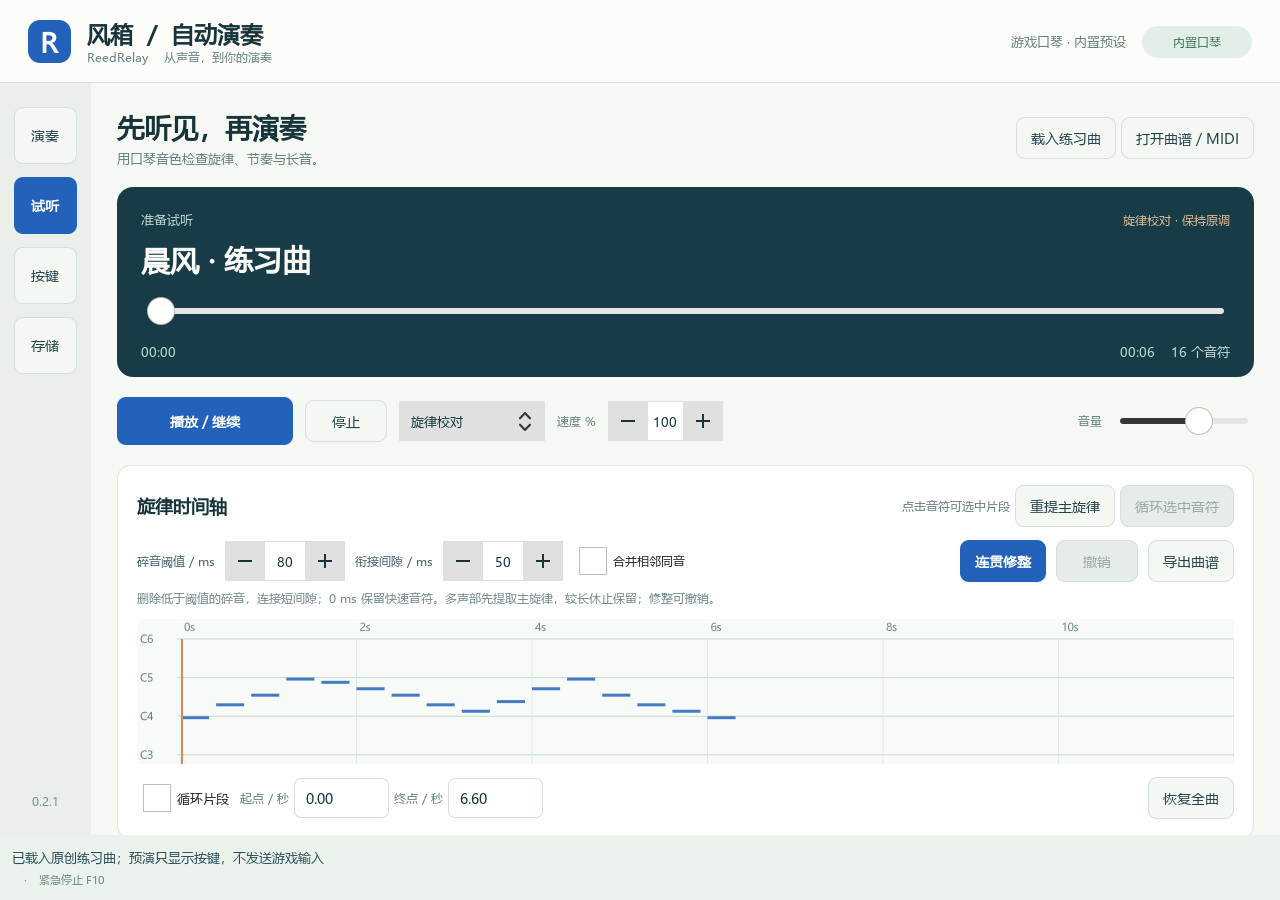
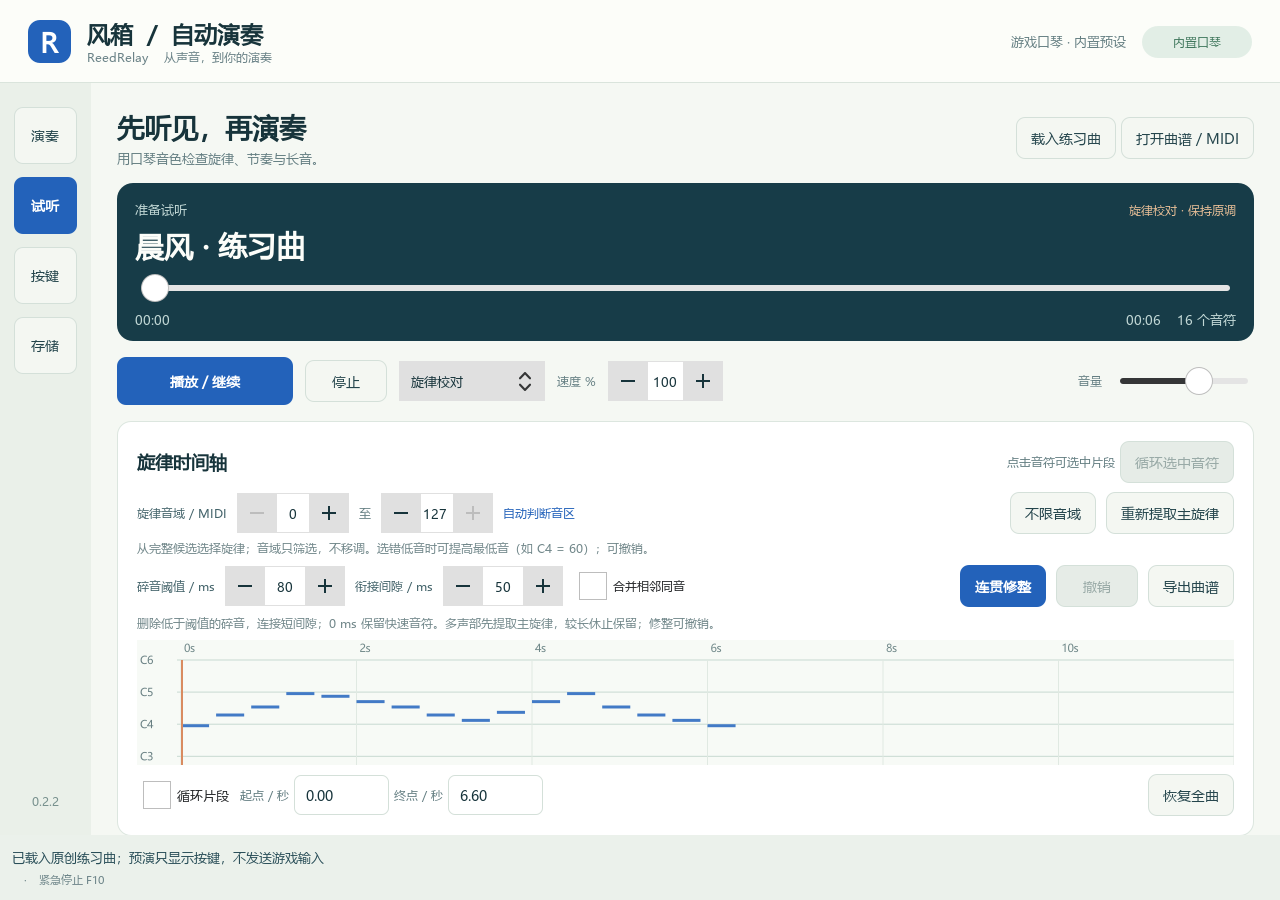
feat(ui): deliver 0.2.2 melody range and legacy tuning correction

diff --git a/src/reed_relay/ui/Audition.qml b/src/reed_relay/ui/Audition.qml
@@ -8,7 +8,7 @@ ScrollView {
     function clock(ms) { let s=Math.floor(ms/1000);return Math.floor(s/60).toString().padStart(2,"0")+":"+(s%60).toString().padStart(2,"0") }
     clip:true;contentWidth:availableWidth
     ColumnLayout {
-        width:page.availableWidth;spacing:20
+        width:page.availableWidth;spacing:16
         RowLayout {
             Layout.fillWidth:true;Layout.margins:26;Layout.bottomMargin:0
             ColumnLayout {
@@ -21,16 +21,16 @@ ScrollView {
             ActionButton { text:"打开曲谱 / MIDI";enabled:!bridge.busy;onClicked:bridge.openProject() }
         }
         Rectangle {
-            Layout.fillWidth:true;Layout.leftMargin:26;Layout.rightMargin:26;Layout.preferredHeight:190;radius:16;color:"#173c48"
+            Layout.fillWidth:true;Layout.leftMargin:26;Layout.rightMargin:26;Layout.preferredHeight:158;radius:16;color:"#173c48"
             ColumnLayout {
-                anchors.fill:parent;anchors.margins:24;spacing:12
+                anchors.fill:parent;anchors.margins:18;spacing:8
                 RowLayout {
                     Label { text:page.transport.status;color:"#c1d7d5";font.pixelSize:13 }
                     Item { Layout.fillWidth:true }
                     Label { text:page.transport.mode==="clean"?"旋律校对 · 保持原调":"游戏效果 · 含推算音色";color:"#e9bf97";font.pixelSize:12 }
                 }
                 Label { Layout.fillWidth:true;text:bridge.title;color:"#fcfdf9";font.pixelSize:29;font.bold:true;elide:Text.ElideRight }
-                Slider { id:seek;Layout.fillWidth:true;from:0;to:Math.max(1,bridge.duration);value:page.transport.position;enabled:!page.transport.busy && bridge.notes.length>0;onMoved:page.transport.seek(value) }
+                Slider { id:seek;Layout.fillWidth:true;Layout.preferredHeight:30;from:0;to:Math.max(1,bridge.duration);value:page.transport.position;enabled:!page.transport.busy && bridge.notes.length>0;onMoved:page.transport.seek(value) }
                 RowLayout {
                     Label { text:page.clock(page.transport.position);color:"#c1d7d5";font.pixelSize:13 }
                     Item { Layout.fillWidth:true }
@@ -53,17 +53,17 @@ ScrollView {
         Panel {
             Layout.fillWidth:true;Layout.leftMargin:26;Layout.rightMargin:26
             ColumnLayout {
-                anchors.fill:parent;spacing:13
+                anchors.fill:parent;spacing:9
                 RowLayout {
                     Label { text:"旋律时间轴";font.pixelSize:18;font.bold:true;color:"#17343b" }
                     Item { Layout.fillWidth:true }
                     Label { text:"点击音符可选中片段";font.pixelSize:12;color:"#647e82" }
-                    ActionButton { text:"重提主旋律";enabled:!bridge.busy && bridge.notes.length>0;onClicked:bridge.changeReduction(true) }
                     ActionButton { text:"循环选中音符";enabled:bridge.selectedNote>=0;onClicked:bridge.auditionSelected() }
                 }
+                MelodySelection { Layout.fillWidth:true }
                 MelodyTools { Layout.fillWidth:true }
                 Item {
-                    Layout.fillWidth:true;Layout.preferredHeight:145
+                    Layout.fillWidth:true;Layout.preferredHeight:125
                     PianoRoll { id:roll;anchors.fill:parent;notes:bridge.notes;selected:bridge.selectedNote;spanMs:12000;startMs:Math.floor(page.transport.position/12000)*12000;onPicked:function(index){bridge.selectNote(index)} }
                     Rectangle { x:44+((page.transport.position-roll.startMs)/roll.spanMs)*(parent.width-44);y:20;width:2;height:parent.height-20;color:"#d98b60" }
                 }

diff --git a/src/reed_relay/ui/Converter.qml b/src/reed_relay/ui/Converter.qml
@@ -18,7 +18,7 @@ ScrollView {
             ColumnLayout {
                 spacing: 5
                 Label { text: "把声音，写成可演奏的谱"; color: "#17343b"; font.pixelSize: 27; font.bold: true }
-                Muted { text: "保留原调。先识别，再用耳朵确认每一个音。" }
+                Muted { text: "保留原调。还原歌声旋律时，请使用含人声的原曲或 MIDI。" }
             }
             Item { Layout.fillWidth: true }
             ActionButton { text: "恢复自动保存"; enabled: !bridge.busy; onClicked: bridge.recoverProject() }
@@ -73,6 +73,7 @@ ScrollView {
                     Muted { text: "橙色为低模型分数，建议优先试听"; color: "#ad784d" }
                     ComboBox { id: zoom; model: ["12 秒视窗", "24 秒视窗", "48 秒视窗"]; implicitWidth: 125 }
                 }
+                MelodySelection { Layout.fillWidth:true }
                 MelodyTools { Layout.fillWidth:true }
                 PianoRoll { Layout.fillWidth: true; Layout.preferredHeight: 155; notes: bridge.notes; selected: bridge.selectedNote; startMs: viewStart.value; spanMs: 12000*Math.pow(2,zoom.currentIndex); onPicked: function(index) { bridge.selectNote(index) } }
                 Slider { id: viewStart; Layout.fillWidth: true; from: 0; to: Math.max(0,bridge.duration-12000*Math.pow(2,zoom.currentIndex)); stepSize: 200; value: 0 }
@@ -81,7 +82,6 @@ ScrollView {
                     Item { Layout.fillWidth: true }
                     ActionButton { text: "撤销"; enabled: bridge.canUndo && !bridge.busy; onClicked: bridge.undo() }
                     ActionButton { text: "重做"; enabled: bridge.canRedo && !bridge.busy; onClicked: bridge.redo() }
-                    ActionButton { text: "提取主旋律"; enabled: bridge.notes.length>0 && !bridge.busy; onClicked: bridge.changeReduction(true) }
                     ActionButton { text: "恢复原始候选"; enabled: bridge.notes.length>0 && !bridge.busy; onClicked: bridge.changeReduction(false) }
                 }
                 Rectangle {

diff --git a/src/reed_relay/ui/MelodySelection.qml b/src/reed_relay/ui/MelodySelection.qml
@@ -1,0 +1,21 @@
+import QtQuick
+import QtQuick.Controls
+import QtQuick.Layouts
+
+ColumnLayout {
+    id:selection
+    spacing:6
+    function name(pitch) { return ["C","C♯","D","D♯","E","F","F♯","G","G♯","A","A♯","B"][pitch%12]+(Math.floor(pitch/12)-1) }
+    RowLayout {
+        Layout.fillWidth:true;spacing:10
+        Label { text:"旋律音域 / MIDI";font.pixelSize:12;color:"#43636a" }
+        SpinBox { id:lowest;objectName:"melodyMinimum";from:0;to:127;value:bridge.melodyDefaults.minimum;editable:true;implicitWidth:112;font.pixelSize:13;enabled:!bridge.busy;onValueModified:bridge.configureMelody(value,Math.max(value,highest.value)) }
+        Label { text:"至";font.pixelSize:12;color:"#647e82" }
+        SpinBox { id:highest;objectName:"melodyMaximum";from:0;to:127;value:bridge.melodyDefaults.maximum;editable:true;implicitWidth:112;font.pixelSize:13;enabled:!bridge.busy;onValueModified:bridge.configureMelody(Math.min(value,lowest.value),value) }
+        Label { text:lowest.value===0 && highest.value===127?"自动判断音区":selection.name(lowest.value)+" – "+selection.name(highest.value);font.pixelSize:12;color:"#2362ba" }
+        Item { Layout.fillWidth:true }
+        ActionButton { text:"不限音域";enabled:!bridge.busy;onClicked:bridge.configureMelody(0,127) }
+        ActionButton { objectName:"melodyExtract";text:"重新提取主旋律";enabled:!bridge.busy && bridge.notes.length>0;onClicked:bridge.changeReduction(true) }
+    }
+    Label { Layout.fillWidth:true;wrapMode:Text.Wrap;text:"从完整候选选择旋律；音域只筛选，不移调。选错低音时可提高最低音（如 C4 = 60）；可撤销。";font.pixelSize:12;color:"#71878a" }
+}

diff --git a/src/reed_relay/ui/Main.qml b/src/reed_relay/ui/Main.qml
@@ -90,7 +90,7 @@ ApplicationWindow {
                 ActionButton { text: "按键"; primary: root.page === "settings"; implicitWidth: 63; implicitHeight: 57; onClicked: { root.reloadDraft(); root.page="settings" } }
                 ActionButton { text: "存储"; primary: root.page === "storage"; implicitWidth: 63; implicitHeight: 57; onClicked: root.page="storage" }
             }
-            Label { anchors.bottom: parent.bottom; anchors.bottomMargin: 26; anchors.horizontalCenter: parent.horizontalCenter; text: "0.2.1"; color: "#78918e"; font.pixelSize: 12 }
+            Label { anchors.bottom: parent.bottom; anchors.bottomMargin: 26; anchors.horizontalCenter: parent.horizontalCenter; text: "0.2.2"; color: "#78918e"; font.pixelSize: 12 }
         }
         StackLayout {
             Layout.fillWidth:true;Layout.fillHeight:true

diff --git a/src/reed_relay/backend.py b/src/reed_relay/backend.py
@@ -23,7 +23,7 @@ from reed_relay.player.windows import Hotkeys, WindowsOutput, windows, focus_gua
 from reed_relay.audition import Audition
 from reed_relay.binding import BindingCapture
 from reed_relay.storage import Storage, rewrite_paths, suggested_file
-from reed_relay.core.melody import repair_melody
+from reed_relay.core.melody import repair_melody, select_melody, model_semitone_notes
 
 
 class Backend(QObject):
@@ -66,6 +66,8 @@ class Backend(QObject):
         self._repair_minimum = self._initial_options.get('repair_minimum', 80.)
         self._repair_gap = self._initial_options.get('repair_gap', 50.)
         self._repair_merge = self._initial_options.get('repair_merge', False)
+        self._melody_minimum = self._initial_options.get('melody_minimum', 0)
+        self._melody_maximum = self._initial_options.get('melody_maximum', 127)
         self._tune, self._stream, self._mic_queue = {}, None, queue.Queue(maxsize=2)
         self._capture_source, self._capture_devices, self._capture_device = "system", [], -1
         self._loopback, self._capture_level, self._last_audio_time = None, 0., 0.
@@ -217,6 +219,9 @@ class Backend(QObject):
     @Property('QVariantMap', notify=changed)
     def repairDefaults(self):
         return {'minimum':self._repair_minimum,'gap':self._repair_gap,'merge':self._repair_merge}
+    @Property('QVariantMap', notify=changed)
+    def melodyDefaults(self):
+        return {'minimum':self._melody_minimum,'maximum':self._melody_maximum}
     @Property("QVariantList", notify=scoreChanged)
     def voices(self): return sorted({n.voice for n in self._score.notes})
 
@@ -285,11 +290,21 @@ class Backend(QObject):
             self._edited()
         except Exception as error: self._error(error)
 
+    @Slot(int, int)
+    def configureMelody(self, minimum, maximum):
+        if self._busy or not 0 <= minimum <= maximum <= 127: return
+        self._melody_minimum, self._melody_maximum = minimum, maximum
+        try: self._save_preferences()
+        except OSError as error: self._error(error)
+        self.changed.emit()
+
     def _prepared_score(self):
         return replace(self._score, notes=self._reduce(self._score.notes)) if self._melody else self._score
 
     def _reduce(self, notes):
-        return repair_melody(extract_melody(notes), self._repair_minimum, self._repair_gap, self._repair_merge)
+        notes = model_semitone_notes(notes, self._score.metadata)
+        return repair_melody(select_melody(notes, minimum_pitch=self._melody_minimum, maximum_pitch=self._melody_maximum),
+                             self._repair_minimum, self._repair_gap, self._repair_merge)
 
     def _check(self):
         try:
@@ -475,7 +490,8 @@ class Backend(QObject):
         return {"speed":round(self._speed*100),"delay":self._delay,
                     "transpose":self._transpose,"melody":self._melody,"skip":self._skip,
                     "auto_continue":self._auto_continue,"long_policy":self._long_policy,"repeat_gap":self._repeat_gap,
-                    'repair_minimum':self._repair_minimum,'repair_gap':self._repair_gap,'repair_merge':self._repair_merge}
+                    'repair_minimum':self._repair_minimum,'repair_gap':self._repair_gap,'repair_merge':self._repair_merge,
+                    'melody_minimum':self._melody_minimum,'melody_maximum':self._melody_maximum}
 
     @Slot(str, float)
     def configureArticulation(self, policy, gap):
@@ -861,6 +877,7 @@ class Backend(QObject):
         self._conversion_cancel.clear()
         paths = list(self._audio_queue)
         repair_options = {'minimum_ms':self._repair_minimum,'gap_ms':self._repair_gap,'merge_repeats':self._repair_merge}
+        repair_options.update(minimum_pitch=self._melody_minimum, maximum_pitch=self._melody_maximum)
         def worker():
             try:
                 from .converter.transcribe import transcribe
@@ -1018,14 +1035,19 @@ class Backend(QObject):
 
     @Slot(bool)
     def changeReduction(self, melody):
-        if self._busy: return
-        self._remember()
-        if not self._score.original_notes: self._score.original_notes=list(self._score.notes)
-        source = self._score.original_notes
-        self.stop(); self.stopAudio()
-        self._score.notes = self._reduce(source) if melody else list(source)
-        self._selected_note=-1
-        self._edited()
+        if self._busy or self.binding.active: return
+        try:
+            source = self._score.original_notes or self._score.notes
+            selected = self._reduce(source) if melody else list(source)
+            if not selected: raise ValueError('当前音域和碎音阈值下没有旋律候选；请扩大音域或降低碎音阈值')
+            self.stop(); self.stopAudio()
+            self._remember()
+            if not self._score.original_notes: self._score.original_notes = list(source)
+            self._score.notes, self._selected_note = selected, -1
+            self._message = (f'已重新提取：{len(source)} 个候选 → {len(selected)} 个旋律音；保持原调，可撤销'
+                             if melody else f'已恢复 {len(source)} 个完整候选，可撤销')
+            self._edited()
+        except Exception as error: self._error(error)
 
     @Slot(str)
     def selectVoice(self, voice):

diff --git a/src/reed_relay/app.py b/src/reed_relay/app.py
@@ -24,6 +24,9 @@ def run(mode):
     parser.add_argument("--score")
     parser.add_argument("--transcribe")
     parser.add_argument("--repair-score", help="修整已有曲谱碎音并另存，需 --output")
+    parser.add_argument("--extract-score", help="从曲谱完整候选重新提取主旋律，需 --output")
+    parser.add_argument("--minimum-pitch", type=int, default=0)
+    parser.add_argument("--maximum-pitch", type=int, default=127)
     parser.add_argument("--short-note-ms", type=float, default=80.)
     parser.add_argument("--gap-ms", type=float, default=50.)
     parser.add_argument("--merge-repeats", action="store_true")
@@ -34,6 +37,18 @@ def run(mode):
     parser.add_argument("--audition-speed", type=float, default=1.)
     args = parser.parse_args()
     repair_options = {'minimum_ms':args.short_note_ms,'gap_ms':args.gap_ms,'merge_repeats':args.merge_repeats}
+    melody_options = {'minimum_pitch':args.minimum_pitch, 'maximum_pitch':args.maximum_pitch}
+    if args.extract_score:
+        if not args.output: parser.error('--extract-score 需要 --output')
+        from .core.score import Score
+        from .core.melody import select_melody, repair_melody, model_semitone_notes
+        score = Score.load(args.extract_score)
+        if not score.original_notes: score.original_notes = list(score.notes)
+        candidates = model_semitone_notes(score.original_notes, score.metadata)
+        score.notes = repair_melody(select_melody(candidates, **melody_options), **repair_options)
+        if not score.notes: raise ValueError('当前音域和碎音阈值下没有旋律候选')
+        score.save(args.output)
+        return 0
     if args.repair_score:
         if not args.output: parser.error("--repair-score 需要 --output")
         from .core.score import Score
@@ -66,7 +81,7 @@ def run(mode):
             parser.error("--transcribe 需要听谱入口和 --output 输出路径")
         try:
             from .converter.transcribe import transcribe
-            transcribe(args.transcribe, **repair_options).save(args.output)
+            transcribe(args.transcribe, **repair_options, **melody_options).save(args.output)
             return 0
         except Exception as e:
             error_path = Path(str(args.output)+".error.txt")

diff --git a/tests/test_editor.py b/tests/test_editor.py
@@ -84,3 +84,40 @@ def test_missing_next_song_stops_without_restarting_previous(tmp_path, monkeypat
     assert not backend.engine.running
     assert not restarted
     backend.close()
+
+
+def test_melody_range_reextract_legacy_tuning_undo_and_empty_guard(tmp_path, monkeypatch):
+    app = QApplication.instance() or QApplication([])
+    monkeypatch.setenv('REED_RELAY_DATA_DIR', str(tmp_path))
+    backend = Backend('converter', no_hotkeys=True)
+    bass = Note(0, 800, 36, confidence=.9)
+    melody = [Note(0, 400, 60, cents=100/3), Note(400, 400, 62, cents=13)]
+    original = [bass, *melody]
+    metadata = {'engine':'Spotify Basic Pitch 0.4.0 / ONNX',
+                'pitch_bends_third_semitone':{n.id:[1,1,1] for n in melody}}
+    path = tmp_path/'legacy.json'
+    Score('Legacy', [bass], 800, original_notes=original, metadata=metadata).save(path)
+    backend.loadProjectPath(str(path))
+    backend.configureMelody(60, 72)
+    assert backend._score.notes == [bass]
+    backend.changeReduction(True)
+    selected = list(backend._score.notes)
+    assert [n.midi_pitch for n in selected] == [60, 62]
+    assert [n.cents for n in selected] == [0, 13]
+    assert backend._score.original_notes == original
+    assert Score.load(tmp_path/'autosave.reedscore.json').notes == selected
+    backend.undo()
+    assert backend._score.notes == [bass]
+    backend.redo()
+    assert backend._score.notes == selected
+    backend.configureMelody(90, 100)
+    undo_count = len(backend._undo)
+    backend.changeReduction(True)
+    assert backend._score.notes == selected and len(backend._undo) == undo_count
+    assert '没有旋律候选' in backend.message
+    backend.configureMelody(72, 60)
+    assert backend.melodyDefaults == {'minimum':90, 'maximum':100}
+    backend.close()
+    second = Backend('player', no_hotkeys=True)
+    assert second.melodyDefaults == {'minimum':90, 'maximum':100}
+    second.close()

diff --git a/tests/test_melody.py b/tests/test_melody.py
@@ -1,7 +1,7 @@
 from dataclasses import replace
 import pytest
 from reed_relay.core.score import Note, Score, extract_melody
-from reed_relay.core.melody import repair_melody, select_melody
+from reed_relay.core.melody import repair_melody, select_melody, model_semitone_notes
 
 
 def test_temporal_path_ignores_brief_competitor_but_follows_sustained_change():
@@ -82,3 +82,15 @@ def test_range_filter_keeps_raw_candidates_and_fast_monophonic_attacks():
     assert not select_melody(notes, minimum_pitch=90)
     with pytest.raises(ValueError): select_melody(notes, minimum_pitch=72, maximum_pitch=60)
     with pytest.raises(ValueError): select_melody(notes, maximum_pitch=float('nan'))
+
+
+def test_legacy_contour_correction_preserves_manual_and_original_offsets():
+    legacy = Note(0, 200, 60, cents=100/3)
+    manual = Note(200, 200, 62, cents=13)
+    metadata = {'engine':'Spotify Basic Pitch 0.4.0 / ONNX',
+                'pitch_bends_third_semitone':{legacy.id:[1,1,1], manual.id:[1,1,1]}}
+    corrected = model_semitone_notes([legacy, manual], metadata)
+    assert corrected[0].cents == 0 and corrected[1] == manual
+    assert legacy.cents == 100/3
+    assert model_semitone_notes([legacy], {}) == [legacy]
+    assert model_semitone_notes([legacy], metadata|{'pitch_policy':'manual'}) == [legacy]

diff --git a/tests/test_binding_audition.py b/tests/test_binding_audition.py
@@ -115,6 +115,17 @@ def test_pages_load_and_launch_click_does_not_bind_left_mouse(rig,mode):
     assert not b.binding.active and b._profile.keys[0]=='J'
     root.setProperty('page','audition');app.processEvents()
     assert root.property('pagesReady') and not warnings
+    original = list(b._score.original_notes or b._score.notes)
+    b.configureMelody(60, 64);app.processEvents()
+    minimum = next(item for item in visual_items(root.contentItem()) if item.objectName()=='melodyMinimum' and item.isVisible())
+    assert minimum.property('value') == 60
+    extract = next(item for item in visual_items(root.contentItem()) if item.objectName()=='melodyExtract' and item.isVisible())
+    QTest.mouseClick(root,Qt.MouseButton.LeftButton,Qt.KeyboardModifier.NoModifier,extract.mapToScene(extract.boundingRect().center()).toPoint())
+    app.processEvents()
+    assert b._score.notes and all(60 <= n.midi_pitch <= 64 for n in b._score.notes)
+    assert b._score.original_notes == original and b.canUndo
+    b.configureMelody(0,127);app.processEvents()
+    assert minimum.property('value') == 0
     if mode == 'converter':
         root.setProperty('page','main');app.processEvents()
         preview=next(item for item in visual_items(root.contentItem()) if item.objectName()=='converterAudition')

diff --git a/src/reed_relay/core/melody.py b/src/reed_relay/core/melody.py
@@ -1,6 +1,27 @@
 """Temporal melody selection and explicit, reversible fragment repair."""
 from dataclasses import replace
+from statistics import median
 from .score import Note, number
+
+
+def model_semitone_notes(notes: list[Note], metadata: dict) -> list[Note]:
+    """Remove only recorded Basic Pitch contour offsets in legacy drafts.
+
+    Raw candidates are left intact. MIDI/manual tuning and new semitone
+    scores are not migrated. An edited offset that differs from the recorded
+    contour is also preserved.
+    """
+    if not metadata.get('engine', '').startswith('Spotify Basic Pitch') or metadata.get('pitch_policy'):
+        return list(notes)
+    bends = metadata.get('pitch_bends_third_semitone', {})
+    result = []
+    for note in notes:
+        origin = note.id.split(':melody:', 1)[0]
+        trajectory = bends.get(origin)
+        if trajectory and abs(note.cents-median(trajectory)*100/3) < .001:
+            note = replace(note, cents=0.)
+        result.append(note)
+    return result
 
 
 def select_melody(notes: list[Note], *, minimum_pitch=0, maximum_pitch=127) -> list[Note]:

diff --git a/src/reed_relay/__init__.py b/src/reed_relay/__init__.py
@@ -1,3 +1,3 @@
 """ReedRelay: independent score conversion and performance applications."""
 
-__version__ = "0.2.1"
+__version__ = "0.2.2"

diff --git a/docs/USER_GUIDE.md b/docs/USER_GUIDE.md
@@ -10,7 +10,16 @@
 6. 页面下方的当前场景检查可点击定位音域外、重叠和音分偏移等问题。是否可演奏取决于当前场景映射；它不是转写准确率评估。
 7. 保存 JSON 工程可带走原始候选和修改结果；MIDI / 文本简谱导出当前编辑结果。若源音频搬家，点击关联原音重新选取，再保存工程。
 
-主旋律转换会考虑候选的持续时间和换音成本，并使用当前修整参数，避免在每个候选交接点频繁跳音。完整候选模式不做碎音过滤；两种模式均保留完整候选备份。
+主旋律转换会考虑局部旋律音区、持续时间、换音成本与休止，并使用当前修整参数，减少持续低音接管和候选交接时频繁跳音。完整候选模式不做音域筛选或碎音过滤；两种模式均保留完整候选备份。
+
+### 选错声部或音准偏移
+
+1. 在「听谱」或「试听」点击「重新提取主旋律」，使用新方法从完整候选生成草稿。旧 Basic Pitch 工程中能与原始 contour 对应的音分偏移会被修正，原始候选仍保留；手工音分或其他来源曲谱不作这项迁移。
+2. 仍混入低音时，修改「旋律音域 / MIDI」后重新提取。例如最低 60 为 C4，最高 84 为 C6；请按歌曲实际音区选择，不要为适应游戏音域删去真正的旋律。「不限音域」恢复 0–127 的自动音区判断。
+3. 音域只影响主旋律筛选，不移调、不折叠八度、不补写漏音；设置立即保存，但当前草稿在点击重新提取后才改变。若范围内没有候选，保留当前草稿并提示扩大音域。
+4. 重新提取会替换当前编辑结果，可撤销；点击「导出曲谱」保存新版本，或在听谱页恢复原始候选比较。
+
+还原歌声旋律时，优先用含人声的原曲或可信 MIDI。去人声处理可能已经删除目标旋律；增大碎音阈值或升高伴奏八度无法恢复它。网上 MIDI 也可能改过调，导入按文件原音高保留，请先核对再选择显式移调。
 
 ## 减少碎音与撕裂感
 
@@ -20,7 +29,7 @@
 2. 再试听比较；若快速装饰音被删掉，点击「撤销」，降低阈值或设为 0 后重试。80 ms 是可调策略，不能作为所有歌曲的最短合法音符时值。
 3. 「合并相邻同音」默认关闭，保留有意的重复起音。听到同一个音被错误切成几段时可开启；音分不同的片段不会合并。
 4. 大于衔接阈值的休止保留，不移动后续节拍、不移调、不改变整曲总时长。多声部修整会先提取单声部草稿，完整候选仍保留。
-5. 「重提主旋律」从完整候选重新生成草稿，适用于旧版频繁跳音的结果；它会替换当前编辑结果，可撤销。修整仅处理当前编辑谱，原始候选不覆盖。
+5. 「重新提取主旋律」从完整候选重新生成草稿，适用于旧版频繁跳音或选错低音的结果；它会替换当前编辑结果，可撤销。修整仅处理当前编辑谱，原始候选不覆盖。
 6. 满意后点击「导出曲谱」保存 JSON，再在风箱中打开该文件。修整结果也会进入自动保存；撤销恢复修改前的音符。
 
 阈值会保存，下一次主旋律转谱沿用这些参数。若本来的休止较短，间隙衔接可能改变该处的断奏，可调小或设为 0。自动修整改善连续性，仍需听原音确认旋律选择。
